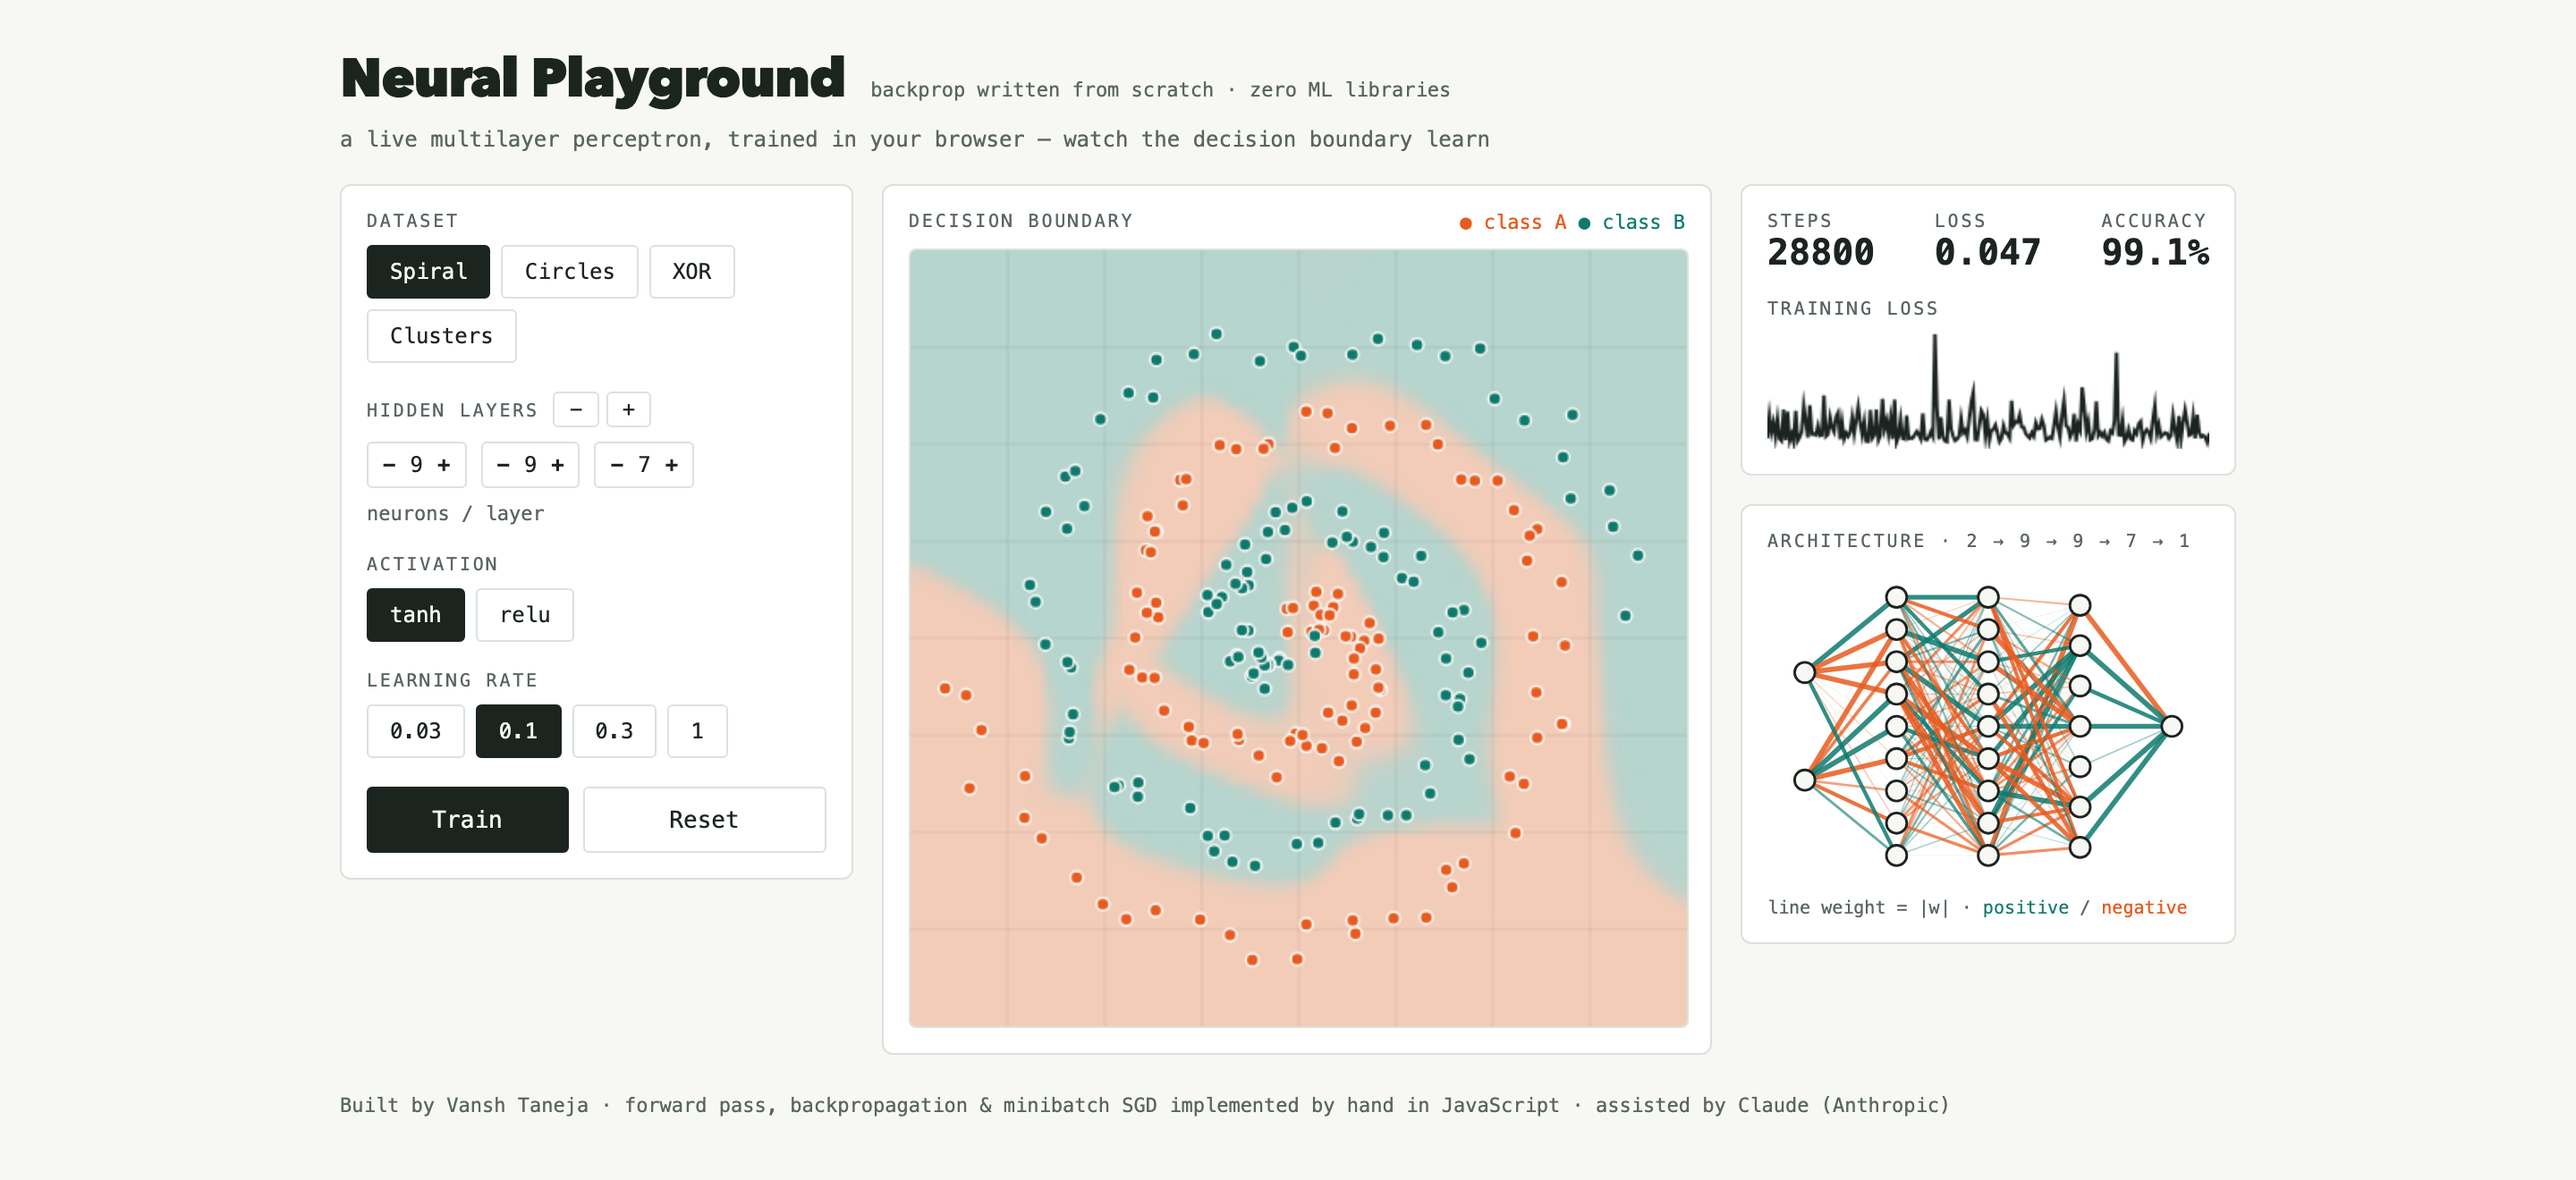
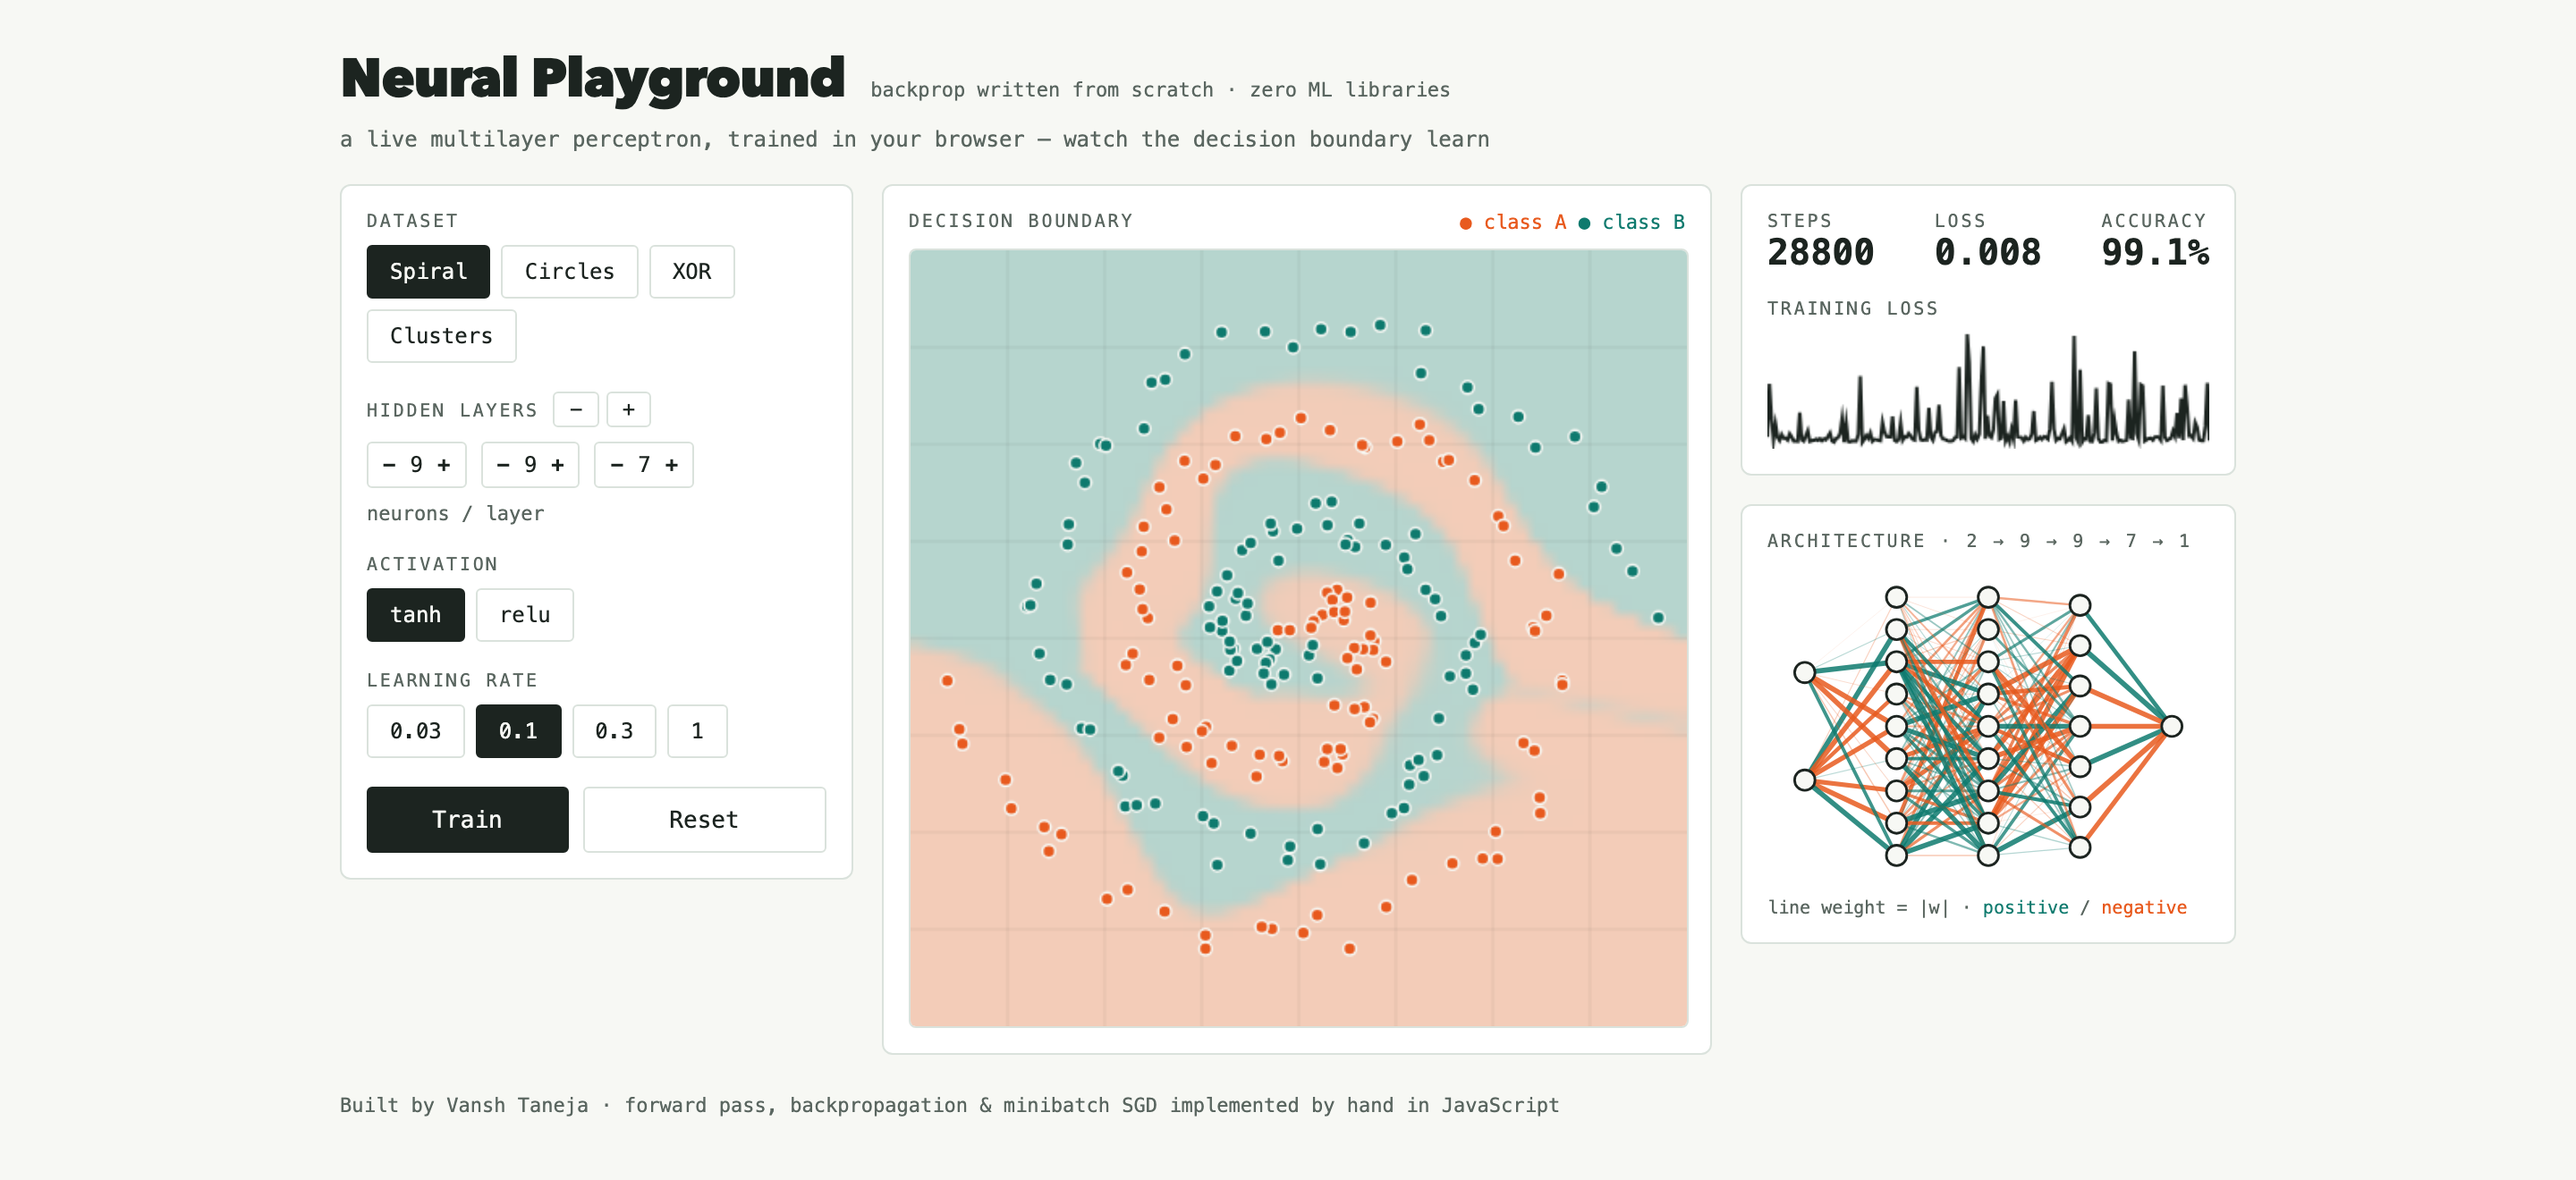
Remove AI-assistance attribution from README and UI footer
Also regenerate the screenshot, which had the old footer text baked in.

diff --git a/neural-playground.jsx b/neural-playground.jsx
@@ -535,7 +535,7 @@ export default function NeuralPlayground() {
         </div>
 
         <footer style={{ ...mono, fontSize: 11, color: "#5A6660", marginTop: 22 }}>
-          Built by Vansh Taneja · forward pass, backpropagation &amp; minibatch SGD implemented by hand in JavaScript · assisted by Claude (Anthropic)
+          Built by Vansh Taneja · forward pass, backpropagation &amp; minibatch SGD implemented by hand in JavaScript
         </footer>
       </div>
     </div>

diff --git a/README.md b/README.md
@@ -163,7 +163,7 @@ neuralplayground/
 
 ## Credits
 
-Built by **Vansh Taneja** — forward pass, backpropagation, and minibatch SGD implemented by hand in JavaScript. Developed with assistance from Claude (Anthropic). Concept inspired by TensorFlow Playground.
+Built by **Vansh Taneja** — forward pass, backpropagation, and minibatch SGD implemented by hand in JavaScript. Concept inspired by TensorFlow Playground.
 
 ## License
 
